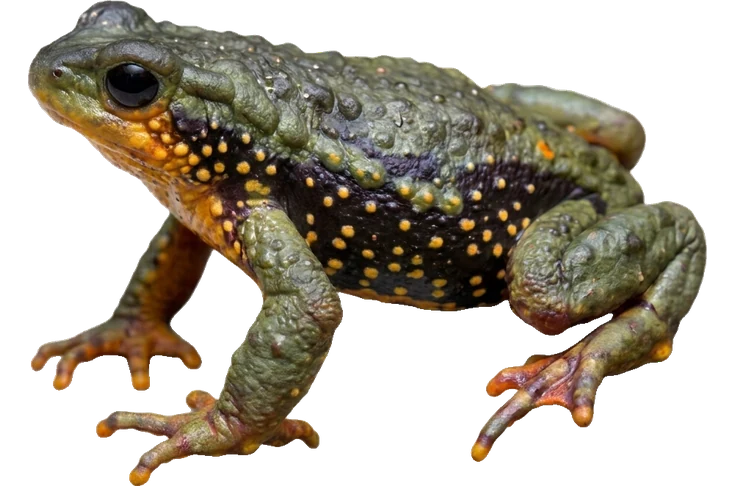
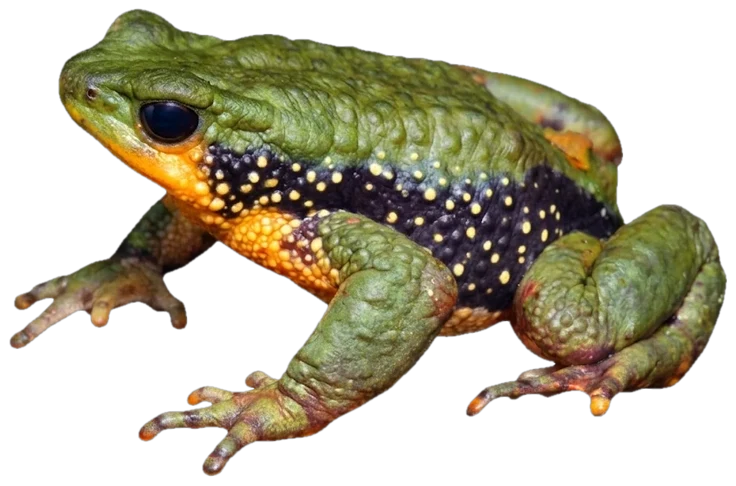
Especie: nuevos perfiles de los dos morfos, letras a–h y pie de lámina con autorías

diff --git a/src/components/Species.jsx b/src/components/Species.jsx
@@ -3,13 +3,37 @@ import { useApp } from "../AppContext.jsx";
 /* Lámina: las dos coloraciones conocidas. Arriba, de perfil y al mismo tamaño (public/img/morfo-verde.webp y
    morfo-amarillo.webp, 736 × 486); debajo, tres vistas pequeñas (morfo-<id>-<vista>.webp) */
 const MORFOS = [
-  { id: "verde", es: "Verde y negro", en: "Green and black", arriba: [269, 323], abajo: [285, 323], frente: [340, 234] },
-  { id: "amarillo", es: "Amarillo y marrón", en: "Yellow and brown", arriba: [245, 323], abajo: [280, 323], frente: [340, 234] },
+  { id: "verde", letra: "a", letras: ["c", "d", "e"], es: "Verde y negro", en: "Green and black", arriba: [269, 323], abajo: [285, 323], frente: [340, 234] },
+  { id: "amarillo", letra: "b", letras: ["f", "g", "h"], es: "Amarillo y marrón", en: "Yellow and brown", arriba: [245, 323], abajo: [280, 323], frente: [340, 234] },
 ];
 const VISTAS = [
   { id: "arriba", es: "Lomo", en: "Back" },
   { id: "abajo", es: "Vientre", en: "Belly" },
   { id: "frente", es: "De frente", en: "Front view" },
+];
+
+/* Pie de la lámina: una línea por letra, en el orden a–h */
+const SIN_FONDO_ES = " Sin fondo y con las zonas tapadas por musgo regeneradas con IA.";
+const SIN_FONDO_EN = " Background removed and the areas covered by moss regenerated with AI.";
+const PIE_ES = [
+  "Generada con IA a partir de b, con la coloración de una foto de Jörn Köhler.",
+  "Fotografía de Carlos Vilca Alzamora." + SIN_FONDO_ES,
+  "Generada con IA a partir de una fotografía de Jörn Köhler.",
+  "Fotografía de Jörn Köhler." + SIN_FONDO_ES,
+  "Generada con IA a partir de una fotografía de Jörn Köhler.",
+  "Generada con IA a partir de c.",
+  "Generada con IA a partir de d.",
+  "Generada con IA a partir de e.",
+];
+const PIE_EN = [
+  "AI-generated from b, with the colouring of a photo by Jörn Köhler.",
+  "Photograph by Carlos Vilca Alzamora." + SIN_FONDO_EN,
+  "AI-generated from a photograph by Jörn Köhler.",
+  "Photograph by Jörn Köhler." + SIN_FONDO_EN,
+  "AI-generated from a photograph by Jörn Köhler.",
+  "AI-generated from c.",
+  "AI-generated from d.",
+  "AI-generated from e.",
 ];
 
 /* La especie: texto fijo en dos idiomas. */
@@ -35,17 +59,22 @@ export default function Species() {
           <div className="morfos-grid">
             {MORFOS.map((m) => (
               <div className="morfo" key={m.id}>
-                <h4>{en ? m.en : m.es}</h4>
+                <h4>{en ? m.en : m.es} <span className="letra">{m.letra}</span></h4>
                 <img className="morfo-lado" src={`/img/morfo-${m.id}.webp`} width="736" height="486" alt="" loading="lazy" />
                 <div className="morfo-vistas">
-                  {VISTAS.map((v) => (
-                    <figure key={v.id}><img src={`/img/morfo-${m.id}-${v.id}.webp`} width={m[v.id][0]} height={m[v.id][1]} alt="" loading="lazy" /><figcaption>{en ? v.en : v.es}</figcaption></figure>
+                  {VISTAS.map((v, i) => (
+                    <figure key={v.id}><img src={`/img/morfo-${m.id}-${v.id}.webp`} width={m[v.id][0]} height={m[v.id][1]} alt="" loading="lazy" /><figcaption><span className="letra">{m.letras[i]}</span> {en ? v.en : v.es}</figcaption></figure>
                   ))}
                 </div>
               </div>
             ))}
           </div>
-          <figcaption className="lamina-pie">{en ? "Plate · The belly of the green-backed toad is a photograph by Jörn Köhler, retouched with AI. The belly of the yellow and brown form was generated with AI from that photograph. The other images are AI-generated and not based on any particular photographer's work." : "Lámina · El vientre del sapo de dorso verde es una fotografía de Jörn Köhler retocada con IA. El vientre de la forma amarilla y marrón se generó con IA a partir de esa foto. Las demás imágenes están generadas con IA, sin basarse en la foto de ningún autor concreto."}</figcaption>
+          <figcaption className="lamina-pie">
+            <b>{en ? "Plate" : "Lámina"}</b>
+            <ol>
+              {(en ? PIE_EN : PIE_ES).map((t, i) => <li key={i}><b>{"abcdefgh"[i]})</b> {t}</li>)}
+            </ol>
+          </figcaption>
         </figure>
 
         <h3>{en ? "Where it lives" : "Dónde vive"}</h3>

diff --git a/src/styles.css b/src/styles.css
@@ -1150,3 +1150,8 @@ g[tabindex]:focus-visible .g-hit{stroke:var(--link);stroke-width:2}
 .caja :is(ul,ol,p,dl,div)+h3.sub{margin-top:24px!important}
 .proy-portada.grande.sin-foto{aspect-ratio:21/6}
 @media (max-width:620px){.proy-portada.grande.sin-foto{aspect-ratio:21/9}}
+
+/* Letras de la lámina de la especie (fuera de las imágenes) */
+.lamina .letra{display:inline-grid;place-items:center;width:1.35em;height:1.35em;border-radius:50%;background:var(--muted);color:var(--manta);font:700 .72em/1 var(--body);font-style:normal;vertical-align:.12em;margin-right:.15em}
+.lamina-pie ol{list-style:none;margin:.3em 0 0;padding:0}
+.lamina-pie li{padding-left:1.6em;text-indent:-1.6em}
